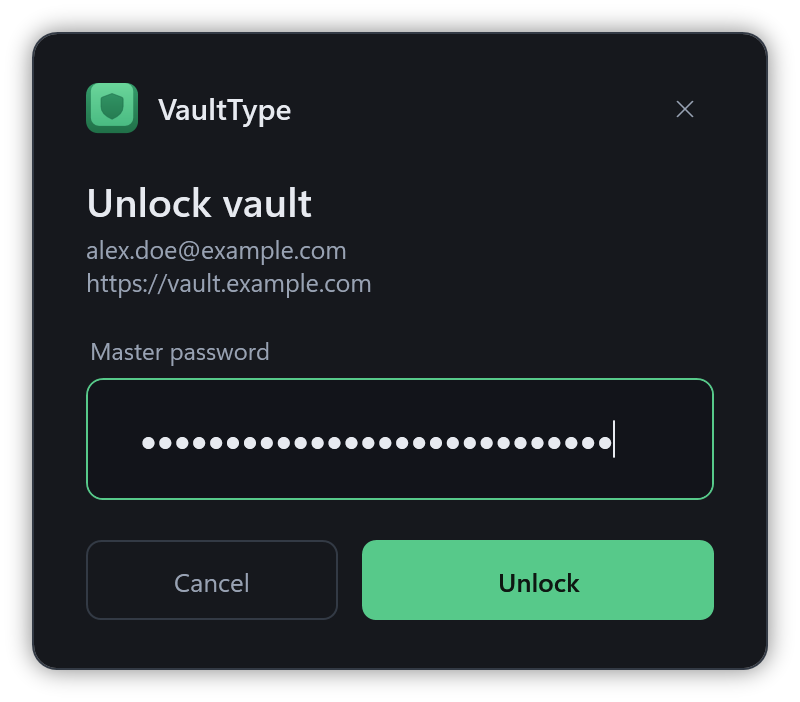
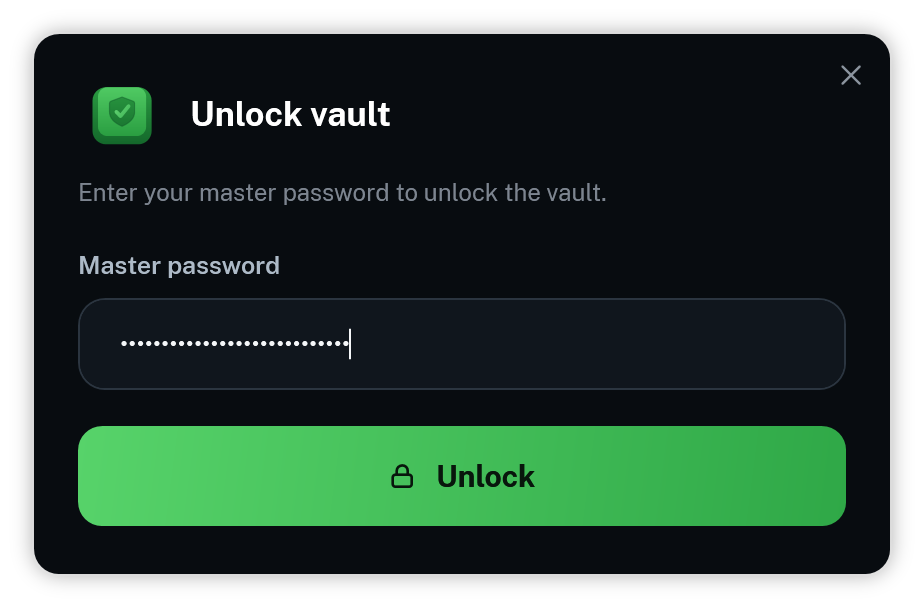
docs: rewrite the README for the built-in vault client and refresh the screenshots

diff --git a/README.md b/README.md
@@ -4,10 +4,10 @@
 
 # VaultType
 
-**Secure, KeePass-style auto-type for Bitwarden & Vaultwarden - on Windows.**
+**A native Bitwarden & Vaultwarden client for Windows - KeePass-style auto-type, SSH agent and passkeys.**
 
 [![Windows](https://img.shields.io/badge/Windows-10%2F11-0078D6?logo=windows&logoColor=white)](#requirements)
-[![.NET](https://img.shields.io/badge/.NET-9.0-512BD4?logo=dotnet&logoColor=white)](#requirements)
+[![.NET](https://img.shields.io/badge/.NET-10.0-512BD4?logo=dotnet&logoColor=white)](#requirements)
 [![CI](https://github.com/friedPotat0/VaultType/actions/workflows/ci.yml/badge.svg)](https://github.com/friedPotat0/VaultType/actions/workflows/ci.yml)
 [![Latest release](https://img.shields.io/github/v/release/friedPotat0/VaultType?label=download&logo=github)](https://github.com/friedPotat0/VaultType/releases/latest)
 [![License: Apache-2.0 + Commons Clause](https://img.shields.io/badge/License-Apache--2.0%20%2B%20Commons%20Clause-lightgrey)](LICENSE)
@@ -21,15 +21,19 @@
 
 VaultType gives Bitwarden a global auto-type hotkey - the feature power users miss from KeePass.
 Press a shortcut and it types your username, password and TOTP into **any** window: desktop
-applications *and* browsers. It uses the official Bitwarden CLI as its vault backend, so every
-cryptographic operation is performed by Bitwarden's own code. VaultType is a hardened front-end
-that is built to **never** persist your secrets.
+applications *and* browsers. Beyond auto-type, it can serve the **SSH keys** stored in your vault
+through the Windows OpenSSH agent, and act as a **Windows 11 passkey provider** (experimental).
+
+VaultType is a **native Bitwarden client**: it speaks the Bitwarden server API directly and
+performs all cryptography in-process - no Bitwarden CLI, no browser extension, no helper
+processes. The entire app is a single hardened executable that is built to **never** persist your
+secrets.
 
 > [!IMPORTANT]
 > VaultType is an independent, unofficial project. It is **not affiliated with, endorsed by, or
 > sponsored by Bitwarden Inc.** "Bitwarden" and "Vaultwarden" are trademarks of their respective
-> owners. VaultType only drives the official Bitwarden CLI, which connects to whichever server you
-> configure - your self-hosted Vaultwarden or bitwarden.com.
+> owners. VaultType implements the Bitwarden client protocol and connects only to the server you
+> configure - your self-hosted Vaultwarden/Bitwarden or the bitwarden.com cloud.
 
 ---
 
@@ -43,6 +47,8 @@ that is built to **never** persist your secrets.
 - [Configuration](#configuration)
 - [Usage](#usage)
 - [Auto-type sequences](#auto-type-sequences)
+- [SSH agent](#ssh-agent)
+- [Passkeys](#passkeys-experimental)
 - [Languages](#languages)
 - [Building from source](#building-from-source)
 - [Contributing](#contributing)
@@ -55,15 +61,32 @@ that is built to **never** persist your secrets.
 - **KeePass-style picker** - entries matching the active window/URL come first, but you can
   **search the whole vault** if the automatic match is wrong.
 - **Auto-type** the full sequence (username → Tab → password → Enter), or username / password /
-  TOTP only.
+  TOTP only - with per-entry [custom sequences](#auto-type-sequences).
 - **Copy to clipboard** (right-click) for username / password / TOTP, with the clipboard
   **cleared automatically** after a timeout.
 - **Learn associations** - pick a non-suggested entry and VaultType offers to remember the
   current site or app for next time.
-- **Local TOTP** generation (RFC 6238) - no clipboard, no extra network calls.
-- **Real favicons** served by *your own* Vaultwarden (`/icons`), cached locally - no third-party
-  icon service is contacted.
-- **Auto-lock** after inactivity (default 30 minutes); it also re-locks after the computer wakes from sleep or standby, since real time keeps counting.
+- **Multiple accounts** - keep several vaults side by side (say a personal Vaultwarden and a work
+  Bitwarden cloud). Unlock as many as you like; the picker merges their entries and tags each with a
+  coloured account badge. Locked accounts show up as chips you can unlock on the spot, without
+  leaving the picker. Each vault keeps its own session and its own encryption key.
+- **Native vault client** - VaultType talks to the Bitwarden/Vaultwarden API itself (PBKDF2 *and*
+  Argon2id KDF, API-key login, two-factor via authenticator app, email, YubiKey or Duo). No
+  Bitwarden CLI to download, verify or keep updated.
+- **SSH agent** - serve the SSH keys stored in your vault over the standard Windows OpenSSH agent
+  pipe; `ssh`/`git` just work, with an optional confirmation for every signature.
+- **Passkey provider** *(experimental, packaged edition only)* - register VaultType as a Windows 11
+  passkey provider and use the FIDO2 credentials in your vault for website sign-ins, gated behind
+  Windows Hello.
+- **PIN unlock** - unlock with a short PIN instead of the full master password, Bitwarden-style
+  (wrong-PIN limit, optional "require master password after restart").
+- **Local TOTP** generation (RFC 6238, plus Steam Guard) - no clipboard, no extra network calls.
+- **Real favicons** served by *your own* server (`/icons`), cached locally - no third-party icon
+  service is contacted.
+- **Auto-lock** after inactivity (default 30 minutes); it also re-locks after the computer wakes
+  from sleep or standby, since real time keeps counting.
+- **Master password reprompt** - entries flagged in Bitwarden as "ask for master password" are
+  re-confirmed before typing or copying.
 - **Multilingual** - ships in 11 languages, follows your Windows display language automatically.
 - Clean dark interface, runs quietly in the system tray.
 
@@ -77,23 +100,13 @@ search the whole vault at any time. Every window shares the same clean, dark int
   <tr>
     <td colspan="2" align="center">
       <img src="assets/screenshots/picker.png" width="420" alt="VaultType entry picker" /><br />
-      <sub><b>Entry picker</b> - matches for the active window come first; start typing to search the whole vault.</sub><br /><br />
-    </td>
-  </tr>
-  <tr>
-    <td align="center" valign="top" width="50%">
-      <img src="assets/screenshots/cli-setup.png" width="380" alt="VaultType first-run Bitwarden CLI setup" /><br />
-      <sub><b>First run</b> - VaultType asks before anything touches the network: download the CLI, or add your own.</sub><br /><br />
-    </td>
-    <td align="center" valign="top" width="50%">
-      <img src="assets/screenshots/cli-download.png" width="380" alt="VaultType Bitwarden CLI download progress" /><br />
-      <sub><b>Download</b> - live progress with transfer size, speed and time remaining; cancel any time.</sub><br /><br />
+      <sub><b>Entry picker</b> - matches for the active window come first; start typing to search the whole vault. With more than one account, each entry carries a coloured badge and locked vaults appear as chips you can unlock in place.</sub><br /><br />
     </td>
   </tr>
   <tr>
     <td align="center" valign="top" width="50%">
       <img src="assets/screenshots/signin-vaultwarden.png" width="380" alt="VaultType sign-in (Vaultwarden)" /><br />
-      <sub><b>Vaultwarden sign-in</b> - pick the account type, then server URL, email and master password.</sub><br /><br />
+      <sub><b>Self-hosted sign-in</b> - server URL, email and master password, plus your second factor if the account has one.</sub><br /><br />
     </td>
     <td align="center" valign="top" width="50%">
       <img src="assets/screenshots/signin-bitwarden.png" width="380" alt="VaultType sign-in (Bitwarden.com)" /><br />
@@ -103,11 +116,21 @@ search the whole vault at any time. Every window shares the same clean, dark int
   <tr>
     <td align="center" valign="top" width="50%">
       <img src="assets/screenshots/unlock.png" width="380" alt="VaultType unlock prompt" /><br />
-      <sub><b>Unlock</b> - on later launches just the master password (locked memory, then discarded).</sub><br /><br />
+      <sub><b>Unlock</b> - on later launches just the master password or your PIN (locked memory, then discarded).</sub><br /><br />
     </td>
     <td align="center" valign="top" width="50%">
+      <img src="assets/screenshots/tray.png" width="300" alt="VaultType tray menu" /><br />
+      <sub><b>Tray menu</b> - every account with its state, auto-type, sync, lock, updates and settings one right-click away.</sub><br /><br />
+    </td>
+  </tr>
+  <tr>
+    <td align="center" valign="top" width="50%">
       <img src="assets/screenshots/settings.png" width="380" alt="VaultType settings window" /><br />
-      <sub><b>Settings</b> - hotkey, timeouts, URL matching, language and the security-hardening toggles.</sub><br /><br />
+      <sub><b>Settings</b> - organised into Vaults, Auto-Type, Security, Integration and General. Manage your vaults (name, colour, add or remove) alongside every behaviour and hardening toggle.</sub><br /><br />
+    </td>
+    <td align="center" valign="top" width="50%">
+      <img src="assets/screenshots/settings-integration.png" width="380" alt="VaultType integration settings (SSH agent and passkey provider)" /><br />
+      <sub><b>Integration</b> - switch on the SSH agent and the Windows passkey provider, with per-use confirmation and Windows Hello gating.</sub><br /><br />
     </td>
   </tr>
 </table>
@@ -118,28 +141,36 @@ search the whole vault at any time. Every window shares the same clean, dark int
 VaultType is designed to make it as hard as possible to leak, intercept or scrape your master
 password or vault data.
 
-- **Master password** only ever exists as a `SecureString`, copied into **locked, non-paged
-  memory** (`VirtualLock`) and handed to the CLI through a **private environment block** - never
-  a command-line argument, never the parent environment, never a managed string. It is
-  **discarded immediately** after unlocking and is not kept for the session.
-- The **Bitwarden CLI is verified before it runs**: VaultType confirms `bw.exe` carries a valid
-  Authenticode signature from **Bitwarden Inc.** before handing it your master password. A copy it
-  downloaded that fails the check is deleted; a `bw.exe` you supplied yourself warns you first.
-- **Vault secrets in RAM** (passwords, TOTP seeds) are stored **AES-256-GCM encrypted** under an
-  ephemeral key held in locked memory. Plaintext exists only for the milliseconds needed to type a
-  field, inside a locked buffer that is then zeroed. Locking wipes the key, rendering any leftover
-  ciphertext useless.
-- The `list items` output is parsed **byte-by-byte**, so the full plaintext JSON never becomes a
-  managed string on the heap.
+- **Everything happens in one process.** Login, sync and all vault cryptography are implemented
+  natively (PBKDF2-SHA256 / Argon2id key derivation, AES-256-CBC + HMAC verification, RSA key
+  unwrapping). Your master password never crosses a process boundary, a command line or an
+  environment block - there is no CLI child process anymore.
+- **Master password** (and PIN) only ever exist as a `SecureString`, marshalled into **locked,
+  non-paged memory** (`VirtualLock`) for the moment of key derivation, then zeroed. They are
+  **discarded immediately** after unlocking and are not kept for the session.
+- **Vault secrets in RAM** (passwords, TOTP seeds, SSH and passkey private keys) are stored
+  **AES-256-GCM encrypted** under an ephemeral key held in locked memory. Plaintext exists only for
+  the milliseconds needed to type or sign, inside a locked buffer that is then zeroed. Locking
+  wipes the key, rendering any leftover ciphertext useless.
+- **Nothing decrypted touches the disk.** Per account, only the key envelopes needed to unlock
+  (master-key-wrapped user key, DPAPI-sealed refresh token, optional PIN envelope) plus non-secret
+  metadata are stored under `%LOCALAPPDATA%\VaultType` - a folder whose ACL is restricted to your
+  user. Vault items themselves are re-fetched from the server on every unlock.
 - Windows are hidden from screen capture (`WDA_EXCLUDEFROMCAPTURE`), legacy DLL/hook injection is
   blocked (`ProcessExtensionPointDisablePolicy`), and the app refuses to run under a debugger.
 - **Auto-type aborts instantly** if focus leaves the target window - no stray characters end up
   in the wrong place, and nothing is typed if focus cannot be restored to the target.
 - **No clipboard** is used for typing. The optional copy actions are the only clipboard use, and
-  they self-clear.
-- The application itself opens **no network connections** except favicon requests to *your*
-  Vaultwarden (which you can disable) and the manual *Check for updates* action (a version check
-  against GitHub). All server communication is performed by the official CLI.
+  they self-clear (only if the clipboard still holds what VaultType put there).
+- **PIN unlock is rate-limited**: five wrong PINs destroy the PIN envelope and force the master
+  password. With *require master password after restart* (the default) the envelope only ever
+  lives in RAM.
+- **Minimal supply chain**: a single Microsoft-published NuGet package (`System.Formats.Cbor`).
+  Argon2id and Ed25519 are implemented in VaultType itself instead of pulling third-party DLLs -
+  which also means the app runs on WDAC-locked machines that only allow Microsoft-signed binaries.
+- The application opens **no network connections** except to *your* configured vault server
+  (API + favicons, the latter can be disabled) and the *Check for updates* action (a version
+  check against GitHub).
 
 > [!NOTE]
 > No user-space password manager - VaultType or KeePass - can fully defend against an attacker who
@@ -148,21 +179,13 @@ password or vault data.
 
 ## Requirements
 
-- Windows 10 or 11 (x64)
+- Windows 10 or 11 (x64) - the passkey provider additionally needs Windows 11 24H2
 - A Bitwarden or self-hosted Vaultwarden account
 
-Release builds are **self-contained** - the .NET runtime is baked into the single `.exe`, so
-there is nothing else to install. (To [build from source](#building-from-source) you need the
-[.NET 9 SDK](https://dotnet.microsoft.com/download/dotnet/9.0) instead.)
-
-The official **Bitwarden CLI** (`bw.exe`) is **not bundled** (it is Bitwarden's own binary). On
-first run VaultType **asks** whether to download it automatically from the official source - kept
-in `%LOCALAPPDATA%\VaultType` - or to add your own. The automatic download needs internet access,
-so if a firewall (e.g. NetLimiter) is running, allow VaultType through it. To skip the download
-entirely - for offline installs, or a firewall you'd rather not touch - place your own `bw.exe`
-next to `VaultType.exe` or into `%LOCALAPPDATA%\VaultType\bw.exe` beforehand, or point to it in the
-first-run prompt. However you provide it, VaultType runs it only if it is validly signed by
-Bitwarden.
+That's it. Release builds are **self-contained** - the .NET runtime is baked into the single
+`.exe`, and the Bitwarden client is built in, so there is nothing else to install or download.
+(To [build from source](#building-from-source) you need the
+[.NET 10 SDK](https://dotnet.microsoft.com/download/dotnet/10.0) instead.)
 
 ## Installation
 
@@ -178,34 +201,51 @@ Then, either way:
 
 1. Run it. Windows may show a SmartScreen warning because it isn't code-signed (there is currently
    no code-signing certificate for this project) - click *More info -> Run anyway*.
-2. On first launch it asks whether to download the official Bitwarden CLI or add it yourself, then
-   shows the sign-in window - pick **Vaultwarden**, **Bitwarden US** or **Bitwarden EU** and enter your details.
-3. Optional: enable *Start with Windows* from the tray menu.
+2. Sign in: pick **Bitwarden.com (US)**, **Bitwarden.eu (EU)**, **Bitwarden (self-hosted)** or
+   **Vaultwarden (self-hosted)** and enter your details. If your account has two-factor
+   authentication, choose the method (authenticator app, email, YubiKey, Duo) and enter the code.
+   You can also pick how to unlock in the future: master password or a PIN.
+3. Optional: add more accounts any time via *Add account* in the tray menu or in Settings, and
+   enable the [SSH agent](#ssh-agent) or [passkey provider](#passkeys-experimental) under
+   *Settings -> Integration*.
 
 > [!NOTE]
 > **The Bitwarden cloud comes in two regions** - US (`bitwarden.com`) and EU (`bitwarden.eu`);
 > pick the one your account was created in, they are separate. **Signing in there uses a personal
-> API key by default:** the Bitwarden CLI can't solve the cloud login CAPTCHA, so an API key is the
-> reliable way in (it also avoids the 2FA prompt). Create one in the Bitwarden web vault under
-> *Account settings -> Security -> Keys -> View API key*, then paste the client ID and secret.
-> **Self-hosted Vaultwarden** has no such CAPTCHA, so it simply uses your email and master password.
+> API key by default:** the cloud login is protected by a CAPTCHA that a desktop app cannot solve,
+> so an API key is the reliable way in (it also avoids the 2FA prompt). Create one in the Bitwarden
+> web vault under *Account settings -> Security -> Keys -> View API key*, then paste the client ID
+> and secret - the master password is still required, it protects your keys. **Self-hosted
+> Vaultwarden** has no such CAPTCHA, so it simply uses your email and master password.
 
 ## Configuration
 
-Settings live in `%LOCALAPPDATA%\VaultType\config.json` - **no secrets are stored there**:
+Everything below is adjustable in the Settings window; the file itself lives in
+`%LOCALAPPDATA%\VaultType\config.json` - **no secrets are stored there**:
 
 | Key | Default | Description |
 | --- | --- | --- |
-| `ServerUrl` | - | Your Bitwarden / Vaultwarden URL |
+| `Accounts` | `[]` | Your configured vaults (name, badge colour, server, email, unlock method) - managed in Settings, no secrets. Each account's session envelope lives in its own `accounts\<id>\` folder |
 | `Hotkey` | `Ctrl+Alt+A` | Global hotkey |
 | `Language` | `auto` | UI language (`auto` follows Windows) |
-| `IdleTimeoutMinutes` | `30` | Auto-lock after inactivity |
+| `IdleTimeoutMinutes` | `30` | Auto-lock after inactivity (`0` = never) |
+| `TypingDelayMs` | `4` | Delay between simulated keystrokes |
 | `ClearFieldBeforeTyping` | `true` | Select the field (Ctrl+A) before typing |
-| `DefaultUriMatch` | `0` | Fallback URL match for entries with no rule of their own (`0` = base domain, `1` = host) |
+| `AutoTypeFieldName` | `auto-type` | Name of the custom field holding a per-entry [sequence](#auto-type-sequences) |
+| `DefaultUriMatch` | `0` | Fallback URL match for entries with no rule of their own (`0` = base domain, `1` = host, `2` = exact URL) |
 | `ShowIcons` | `true` | Favicons from your own server (`false` = letter avatars, offline) |
-| `ClipboardClearSeconds` | `12` | Clear the clipboard this long after a copy |
+| `ClipboardClearSeconds` | `12` | Clear the clipboard this long after a copy (`0` = never) |
+| `HonorMasterPasswordReprompt` | `true` | Re-confirm entries flagged "ask for master password" in Bitwarden |
 | `ExcludeFromScreenCapture` | `true` | Hide windows from screenshots |
 | `AntiDebugger` | `true` | Exit if a debugger attaches |
+| `SshAgentEnabled` | `false` | Serve vault SSH keys on the OpenSSH agent pipe |
+| `SshConfirmEachUse` | `true` | Ask before every SSH signature |
+| `SshDisabledKeys` | `[]` | SSH keys switched off in the agent (managed in the key list) |
+| `PasskeyProviderEnabled` | `false` | Register as a Windows 11 passkey provider (experimental) |
+| `PasskeyRequireHello` | `true` | Gate passkey use behind Windows Hello |
+| `TrayClickAction` | `2` | Tray left-click: `0` = menu, `1` = auto-type, `2` = settings |
+| `Autostart` | `true` | Start with Windows (per-user) |
+| `AutoUpdateCheck` | `true` | Periodic update check against GitHub |
 
 ## Usage
 
@@ -222,6 +262,15 @@ Press the hotkey, unlock once, then in the picker:
 
 For desktop apps, add a URI like `app://programname.exe` to the entry - or simply let VaultType
 offer to remember it the first time.
+
+With **several accounts**, the picker lists the entries of every unlocked vault together, each
+tagged with its account badge. Any vault that is still locked appears as a chip at the bottom -
+click it (or press `Enter` on an empty search) to unlock just that account and fold its entries in,
+without closing the picker.
+
+The **tray menu** shows each account with its state (entry count, or a lock you can click to
+unlock), and offers *Auto-type*, *Sync*, *Lock* per account or *Lock all*, *Check for updates*,
+*Settings* and *Exit*.
 
 ## Auto-type sequences
 
@@ -240,12 +289,12 @@ Supported placeholders (case-insensitive):
 
 | Placeholder | Types |
 | --- | --- |
-| `{USERNAME}` / `{USER}` | the username |
+| `{USERNAME}` / `{USER}` / `{LOGIN}` | the username |
 | `{PASSWORD}` / `{PASS}` | the password |
-| `{TOTP}` | the current TOTP code |
+| `{TOTP}` / `{OTP}` | the current TOTP code |
 | `{TAB}` `{ENTER}` `{SPACE}` | those keys |
 | `{CLEARFIELD}` | selects the field first (Ctrl+A) |
-| `{DELAY 200}` | waits 200 ms |
+| `{DELAY 200}` | waits 200 ms (also `{WAIT}` / `{SLEEP}`) |
 | any other text | typed literally |
 
 Example for a two-step login where the username comes first and the password field only appears a
@@ -257,16 +306,59 @@ moment later (the way PayPal and some others do it):
 
 The field name (`auto-type`) can be changed via `AutoTypeFieldName` in `config.json`.
 
+## SSH agent
+
+Bitwarden vaults can store **SSH keys** as their own item type. Enable the agent under
+*Settings -> Integration -> SSH agent* and VaultType serves those keys on the standard Windows
+OpenSSH agent pipe (`\\.\pipe\openssh-ssh-agent`) - `ssh`, `git` and every other OpenSSH-aware
+tool pick them up automatically, no key files on disk.
+
+<div align="center">
+<img src="assets/screenshots/ssh-keys.png" width="420" alt="VaultType SSH key management" /><br />
+<sub><b>Manage keys</b> - every SSH key across your vaults, with fingerprint, copy-public-key button and a per-key agent toggle.</sub>
+</div>
+<br />
+
+- **Ed25519** and **RSA** keys are supported (rsa-sha2-256/512 signatures).
+- *Confirm each use* (on by default) pops a dialog before every signature, naming the requesting
+  key - nothing signs silently.
+- **Locked vaults still advertise their keys**: a signature request for a key in a locked vault
+  brings up the unlock window first, then signs. You don't have to pre-unlock before pushing.
+- *Manage keys* opens a list of every SSH key across your vaults, with its fingerprint, a
+  copy-public-key button, and a per-key toggle to keep individual keys out of the agent.
+
+> [!NOTE]
+> The built-in Windows *OpenSSH Authentication Agent* service uses the same pipe. If it is
+> running, VaultType cannot bind and will tell you - stop it once with
+> `Stop-Service ssh-agent` (and set it to *Disabled* so it stays off).
+
+## Passkeys (experimental)
+
+VaultType can register as a **Windows 11 passkey provider**: passkeys stored in your vault then
+show up in the native Windows passkey dialog, and websites can create new passkeys directly into
+your vault. Use is gated behind **Windows Hello** by default (or an explicit confirmation dialog
+without it), and passkeys in locked vaults trigger the unlock window first - just like the SSH
+agent.
+
+> [!IMPORTANT]
+> **Passkeys only work in the packaged edition.** Windows activates passkey providers exclusively
+> for apps with a package identity (MSIX), which the regular installer and portable builds do not
+> have - in those builds the toggle under *Settings -> Integration* is greyed out with a note
+> saying exactly that. A Microsoft Store release of the packaged edition is planned; until then
+> the only way to try passkeys is the self-built, dev-signed MSIX package
+> (`packaging/msix/build-msix.ps1`). Windows 11 24H2 or later is required either way.
+
 ## Languages
 
 VaultType is available in: **English, Deutsch, Español, Français, Italiano, 日本語, Nederlands,
 Polski, Português (Brasil), Русский, 简体中文.** By default the interface follows your Windows
 display language (falling back to English), or you can pick a language explicitly under
-**Settings -> Language**. Changing the language restarts VaultType so the new strings take effect.
+**Settings -> General -> Language**. Changing the language restarts VaultType so the new strings
+take effect.
 
 ## Building from source
 
-Needs the [.NET 9 SDK](https://dotnet.microsoft.com/download/dotnet/9.0).
+Needs the [.NET 10 SDK](https://dotnet.microsoft.com/download/dotnet/10.0).
 
 ```powershell
 dotnet publish src/VaultType/VaultType.csproj -c Release -o dist
@@ -280,7 +372,8 @@ dotnet publish src/VaultType/VaultType.csproj -c Release -r win-x64 --self-conta
   -p:PublishSingleFile=true -p:IncludeNativeLibrariesForSelfExtract=true -p:EnableCompressionInSingleFile=true
 ```
 
-The Bitwarden CLI is fetched automatically on first launch.
+To try the [passkey provider](#passkeys-experimental), build and install the dev-signed MSIX
+package with `packaging/msix/build-msix.ps1` (needs the Windows SDK).
 
 ## Contributing
 
@@ -299,3 +392,7 @@ If VaultType is useful to you, you can support development on Ko-fi:
 
 Apache License 2.0 **with the Commons Clause** (you may use, modify and share it freely, but not
 sell it). See [LICENSE](LICENSE).
+
+Bundled third-party components (fonts, one Microsoft NuGet package) are listed with their
+licenses in [THIRD-PARTY-NOTICES.md](THIRD-PARTY-NOTICES.md). VaultType collects no data -
+see the [privacy policy](PRIVACY.md).
